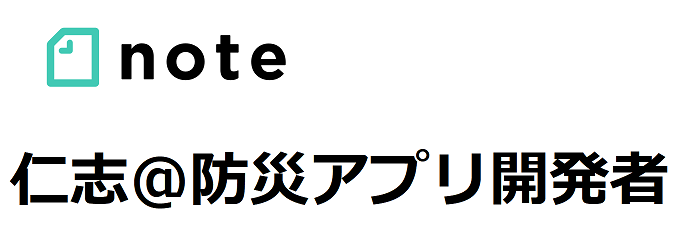
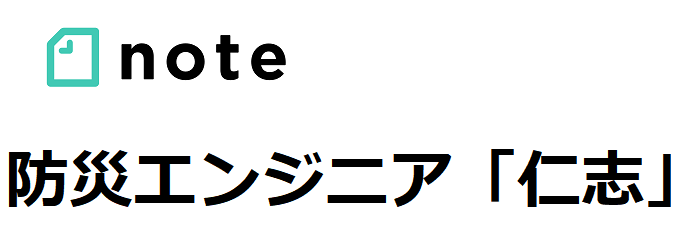
update

Changed region(s): [[0.0, 0.5833, 0.9882, 0.8333]]

diff --git a/index.html b/index.html
@@ -72,7 +72,7 @@
 						<header>
 							<h2> 仁志ウェブサイト </h2>
 						</header>
-						<p>仁志＠防災アプリ開発者のウェブサイトへようこそ</p>
+						<p>防災エンジニア「仁志」のウェブサイトへようこそ</p>
 						<img src="images/icon.jpg" width="50%" id="header_image">
 						
 						<footer>
@@ -98,7 +98,7 @@
 						<h2><strong><span class="icon fa-user"></span> 自己紹介</strong></h2>
 						</header>
 
-						<p>防災アプリ「防災ＩＮＳＩＧＨＴ」開発者。２年連続国土地理院防災アプリ賞（平成２９・３０年）、アーバンデータチャレンジ協議会銀賞受賞、防災、アプリ開発を通して、学ぶ・生きることを考えます。普段は事務仕事、ライフワークにて防災アプリ開発の「二刀流」で暮らしています。よろしくお願いします。</p>
+						<p>防災アプリ「防災ＩＮＳＩＧＨＴ」開発者。国土地理院防災アプリ賞（平成２９・３０年）、アーバンデータチャレンジ協議会銀賞受賞。防災、プログラミングを通して、学ぶ・生きることを考えます。普段は事務仕事、ライフワークにて防災アプリ開発の「二刀流」で暮らしています。よろしくお願いします。</p>
 					</header>
 					
 
